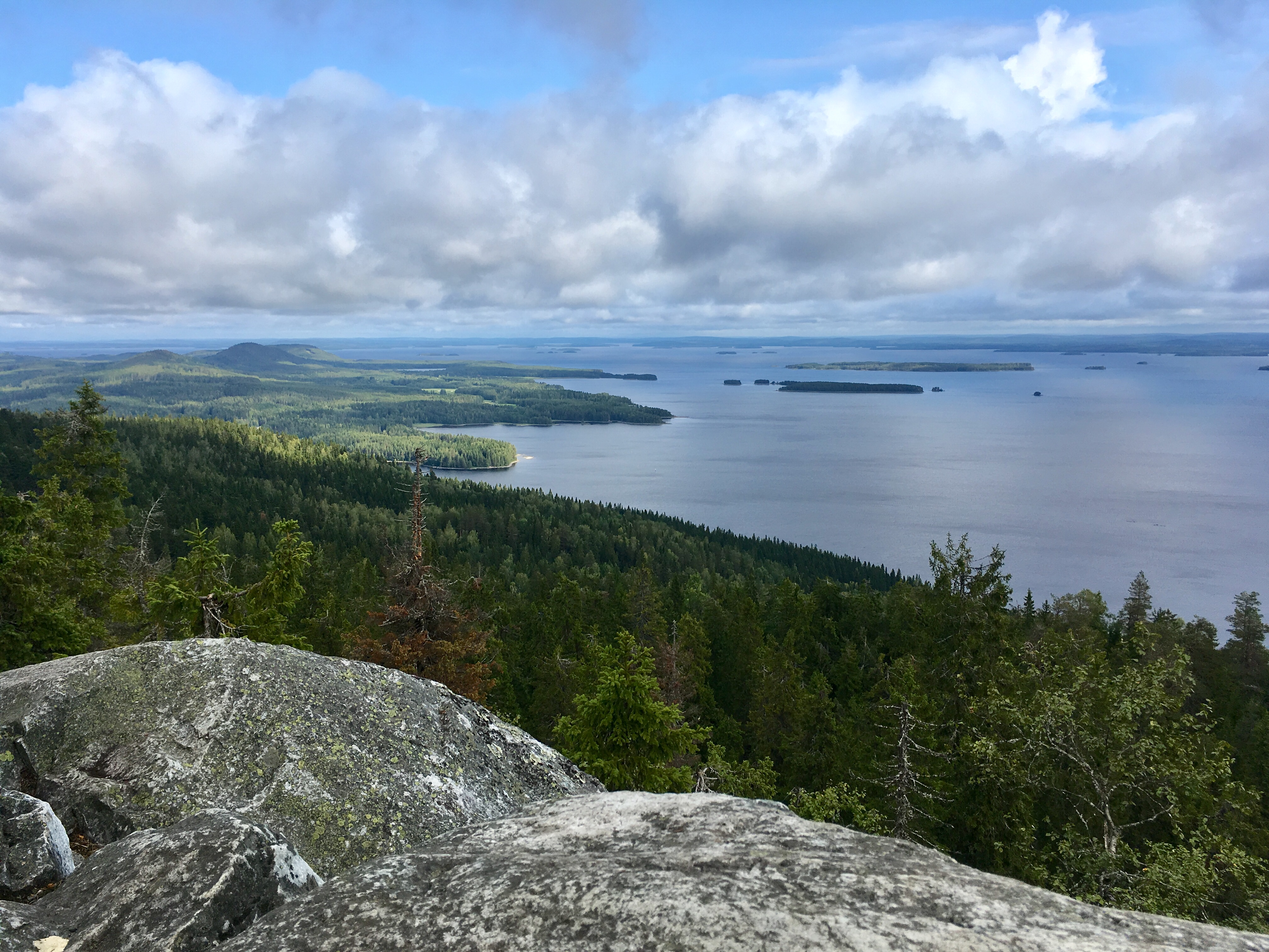
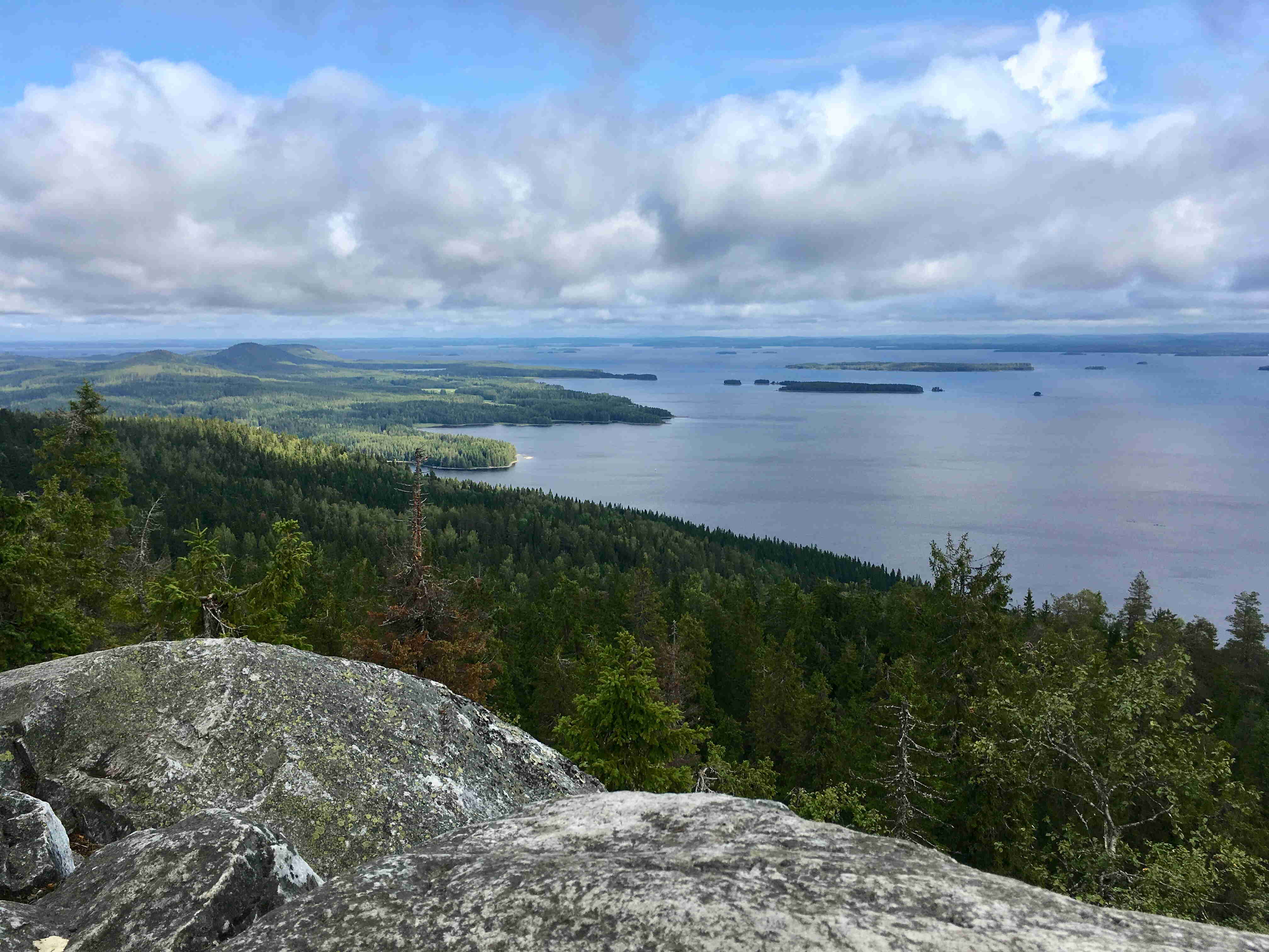
Fix navbar and compress image

diff --git a/navbar.html b/navbar.html
@@ -34,8 +34,8 @@
 
 <script>
     // Add active class to the current page link
-    let page = window.location.pathname.split("/")[1];
-    //console.log(page);
+    let page = window.location.pathname.split("/").slice(-1);
+    
     let query = document.querySelector(`a[href="${page}"]`);
     query.parentElement.classList.add("active");
     //console.log(query);
